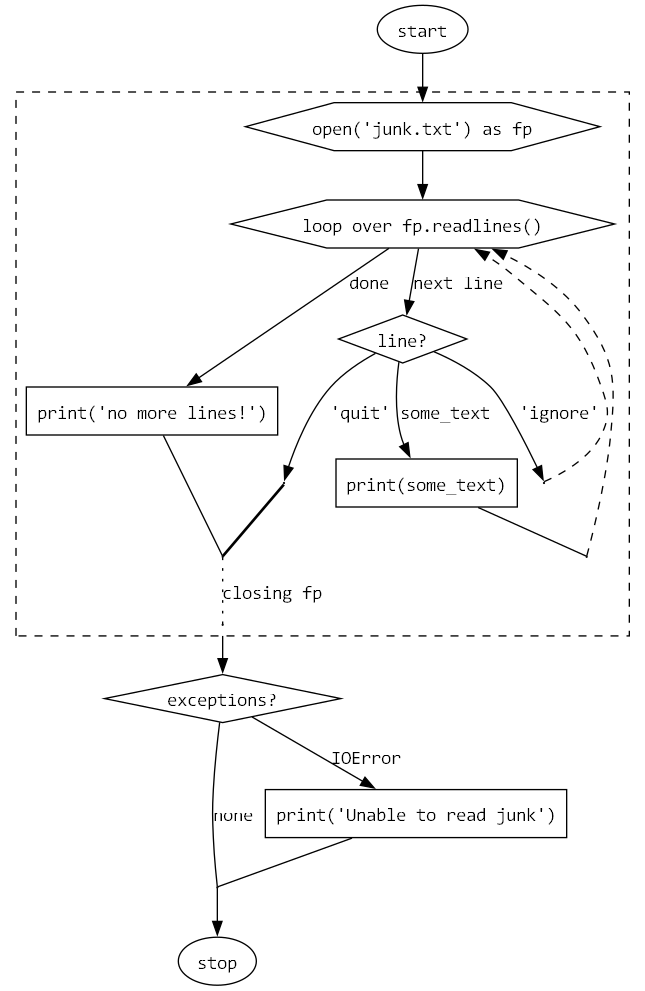
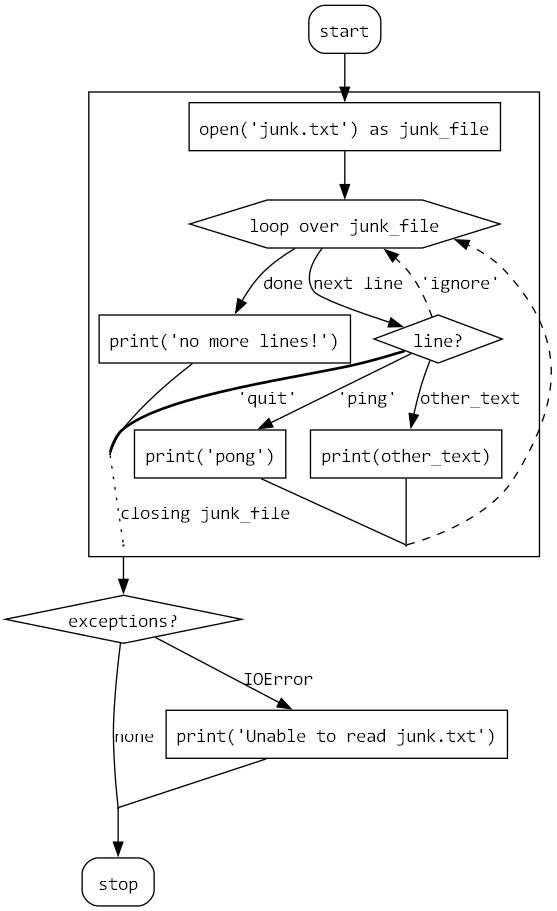
Some visual clean-up

diff --git a/flowchart.py b/flowchart.py
@@ -11,7 +11,7 @@ def to_flowchart(f):
     module_ast = ast.parse(source)
     function_ast = module_ast.body[0]
 
-    graph = Dot("flowchart", compound=True)
+    graph = Dot("flowchart", compound=True, strict=True)
     graph.set_node_defaults(fontname="consolas")
     graph.set_edge_defaults(fontname="consolas")
     maker = FlowGraphBuilder(graph)
@@ -22,7 +22,7 @@ def to_flowchart(f):
 
     terminal_maker = maker.build_subgraph(rank="sink")
     if flow.tail:
-        stop_node = terminal_maker.create_node(name="stop")
+        stop_node = terminal_maker.create_start(name="stop")
         maker.create_edge(flow.tail, stop_node)
 
     terminal_graph = terminal_maker.graph
@@ -34,25 +34,31 @@ def to_flowchart(f):
     return graph
 
 
-def collect_body(maker, body, loop_flow: Flow) -> Flow:
-    head, tail, sinks = None, None, ()
+def collect_body(maker, body, loop_flow: Flow, tail=None) -> Flow:
+    head = None
 
     for ast_object in body:
         name = f"{type(ast_object).__name__.casefold()}_{ast_object.lineno}"
         match ast_object:
             case ast.Break():
-                break_node = maker.create_dummy(name=name)
-                maker.create_edge(head, break_node, dir="none")
-                maker.create_edge(break_node, loop_flow.tail, dir="none", style="bold")
-                return Flow(head or break_node, None)
+                # Note: This edge is already created in process_construct (use strict=True).
+                maker.create_edge(head or tail, loop_flow.tail, dir="none", style="bold")
+                return Flow(head or loop_flow.tail, None)
+                # break_node = maker.create_dummy(name=name)
+                # maker.create_edge(head, break_node, dir="none")
+                # maker.create_edge(break_node, loop_flow.tail, dir="none", style="bold")
+                # return Flow(head or break_node, None)
             case ast.Continue():
-                continue_node = maker.create_dummy(name=name)
-                maker.create_edge(head, continue_node, dir="none")
-                maker.create_edge(continue_node, loop_flow.head, style="dashed")
-                return Flow(head or continue_node, None)
+                # Note: This edge is already created in process_construct (use strict=True).
+                maker.create_edge(head or tail, loop_flow.head, style="dashed")
+                return Flow(head or loop_flow.head, None)
+                # continue_node = maker.create_dummy(name=name)
+                # maker.create_edge(head, continue_node, dir="none")
+                # maker.create_edge(continue_node, loop_flow.head, style="dashed")
+                # return Flow(head or continue_node, None)
             case ast.Return() | ast.Raise():
                 terminal = maker.create_terminal(name=name, label=ast.unparse(ast_object))
-                maker.create_edge(tail, terminal)
+                maker.create_edge(tail, terminal, style="bold" if loop_flow else "")
                 return Flow(head or terminal)
             case _:
                 next_flow = process_construct(maker, ast_object, loop_flow)
@@ -74,11 +80,11 @@ def process_construct(maker, ast_object, loop_flow=None) -> Flow:
             tail_node = maker.create_dummy(name=f"{name}_tail")
 
             if body:
-                body_flow = collect_body(maker, body, Flow(head_node, tail_node))
+                body_flow = collect_body(maker, body, Flow(head_node, tail_node), tail=head_node)
                 maker.create_edge(head_node, body_flow.head, label=f"next {loopvar}")
                 maker.create_edge(body_flow.tail, head_node, style="dashed")
             if orelse:
-                else_flow = collect_body(maker, orelse, loop_flow)
+                else_flow = collect_body(maker, orelse, loop_flow, tail=head_node)
                 maker.create_edge(head_node, else_flow.head, label="done")
                 maker.create_edge(else_flow.tail, tail_node, dir="none")
             else:
@@ -86,7 +92,7 @@ def process_construct(maker, ast_object, loop_flow=None) -> Flow:
 
             return Flow(head_node, tail_node)
 
-        case ast.While(test=ast.Constant(True), body=body):
+        case ast.While(test=ast.Constant(infinite_loop), body=body) if infinite_loop:
             head_node = maker.create_dummy(name=f"{name}_head")
             tail_node = maker.create_dummy(name=f"{name}_tail")
 
@@ -102,11 +108,11 @@ def process_construct(maker, ast_object, loop_flow=None) -> Flow:
             tail_node = maker.create_dummy(name=f"{name}_tail")
 
             if body:
-                body_flow = collect_body(maker, body, Flow(head_node, tail_node))
+                body_flow = collect_body(maker, body, Flow(head_node, tail_node), tail=head_node)
                 maker.create_edge(head_node, body_flow.head, label="True")
                 maker.create_edge(body_flow.tail, head_node)
             if orelse:
-                else_flow = collect_body(maker, orelse, loop_flow)
+                else_flow = collect_body(maker, orelse, loop_flow, tail=head_node)
                 maker.create_edge(head_node, else_flow.head, label="False")
                 maker.create_edge(else_flow.tail, tail_node, dir="none")
             else:
@@ -119,11 +125,11 @@ def process_construct(maker, ast_object, loop_flow=None) -> Flow:
             tail_node = maker.create_dummy(name=f"{name}_tail")
 
             if body:
-                body_flow = collect_body(maker, body, loop_flow)
+                body_flow = collect_body(maker, body, loop_flow, tail=head_node)
                 maker.create_edge(head_node, body_flow.head, label="True")
                 maker.create_edge(body_flow.tail, tail_node, dir="none")
             if orelse:
-                else_flow = collect_body(maker, orelse, loop_flow)
+                else_flow = collect_body(maker, orelse, loop_flow, tail=head_node)
                 maker.create_edge(head_node, else_flow.head, label="False")
                 maker.create_edge(else_flow.tail, tail_node, dir="none")
             else:
@@ -136,7 +142,7 @@ def process_construct(maker, ast_object, loop_flow=None) -> Flow:
             tail_node = maker.create_dummy(name=f"{name}_tail")
 
             for case_ast in cases:
-                body_flow = collect_body(maker, case_ast.body, loop_flow)
+                body_flow = collect_body(maker, case_ast.body, loop_flow, tail=head_node)
                 maker.create_edge(head_node, body_flow.head, label=ast.unparse(case_ast.pattern))
                 maker.create_edge(body_flow.tail, tail_node, dir="none")
 
@@ -147,13 +153,13 @@ def process_construct(maker, ast_object, loop_flow=None) -> Flow:
             head_node, tail_node = flow.head, flow.tail
 
             for i, item_ast in enumerate(items):
-                enter_node = maker.create_setup(name=f"item_{ast_object.lineno}_{i}_enter", label=ast.unparse(item_ast))
-                exit_node = maker.create_dummy(name=f"item_{ast_object.lineno}_{i}_exit", label=f"exit {ast.unparse(item_ast.context_expr)}")
+                enter_node = maker.create_action(name=f"item_{ast_object.lineno}_{i}_enter", label=ast.unparse(item_ast))
+                exit_node = maker.create_dummy(name=f"item_{ast_object.lineno}_{i}_exit")
                 maker.create_edge(enter_node, head_node)
                 if item_ast.optional_vars:
                     label = f"closing {ast.unparse(item_ast.optional_vars)}"
                 else:
-                    label = "closing"
+                    label = f"closing {ast.unparse(item_ast.context_expr)}"
                 maker.create_edge(tail_node, exit_node, style="dotted", label=label, dir="none")
                 head_node, tail_node = enter_node, exit_node
 
@@ -163,7 +169,7 @@ def process_construct(maker, ast_object, loop_flow=None) -> Flow:
               | ast.TryStar(body=body, handlers=handlers, orelse=orelse, finalbody=finalbody)):
 
             cluster_name = f"cluster_{name}"
-            sg_maker = maker.build_subgraph(cluster_name, style="dashed")
+            sg_maker = maker.build_subgraph(cluster_name)  # , style="dashed")
 
             body_flow = collect_body(sg_maker, body, loop_flow)
             maker.graph.add_subgraph(sg_maker.graph)

diff --git a/examples.py b/examples.py
@@ -70,19 +70,21 @@ def SieveOfEratosthenes(num):
 
 def read_junk():
     try:
-        with open("junk.txt") as fp:
-            for line in fp.readlines():
+        with open("junk.txt") as junk_file:
+            for line in junk_file:
                 match line:
+                    case "ping":
+                        print("pong")
                     case "quit":
                         break
                     case "ignore":
                         continue
-                    case some_text:
-                        print(some_text)
+                    case other_text:
+                        print(other_text)
             else:
                 print("no more lines!")
     except IOError:
-        print("Unable to read junk")
+        print("Unable to read junk.txt")
 
 
 with open("fizzbuzz.png", "bw") as fp:

diff --git a/helpers.py b/helpers.py
@@ -17,7 +17,7 @@ class FlowGraphBuilder:
         return node
 
     def create_start(self, name="start", **kwargs):
-        return self.create_node(name=name, **kwargs, shape="oval")
+        return self.create_node(name=name, **kwargs, shape="block", style="rounded")
 
     def create_action(self, **kwargs):
         return self.create_node(**kwargs, shape="block")
@@ -36,7 +36,7 @@ class FlowGraphBuilder:
         return self.create_node(**kwargs, shape="parallelogram")
 
     def create_terminal(self, **kwargs):
-        terminal = Node(**kwargs, shape="oval")
+        terminal = Node(**kwargs, shape="block", style="rounded")
         self.terminals.append(terminal)
         return terminal
 

diff --git a/README.md b/README.md
@@ -4,16 +4,16 @@ It requires pydot and graphviz to be installed.
 ## Quick demo
 
 ```python
-def fizzbuzz2():
-    for i in range(100):
-        if i % 3 == 0 and i % 5 == 0:
+def fizzbuzz():
+    for num in range(100):
+        if num % 3 == 0 and num % 5 == 0:
             print("FizzBuzz")
-        elif i % 3 == 0:
+        elif num % 3 == 0:
             print("Fizz")
-        elif i % 5 == 0:
+        elif num % 5 == 0:
             print("Buzz")
         else:
-            print(i)
+            print(num)
 ```
 
 is converted to a flowchart in graphviz.
@@ -26,15 +26,17 @@ Here is a crazier example:
 ```python
 def read_junk():
     try:
-        with open("junk.txt") as fp:
-            for line in fp.readlines():
+        with open("junk.txt") as junk_file:
+            for line in junk_file:
                 match line:
+                    case "ping":
+                        print("pong")
                     case "quit":
                         break
                     case "ignore":
                         continue
-                    case some_text:
-                        print(some_text)
+                    case other_text:
+                        print(other_text)
             else:
                 print("no more lines!")
     except IOError:
